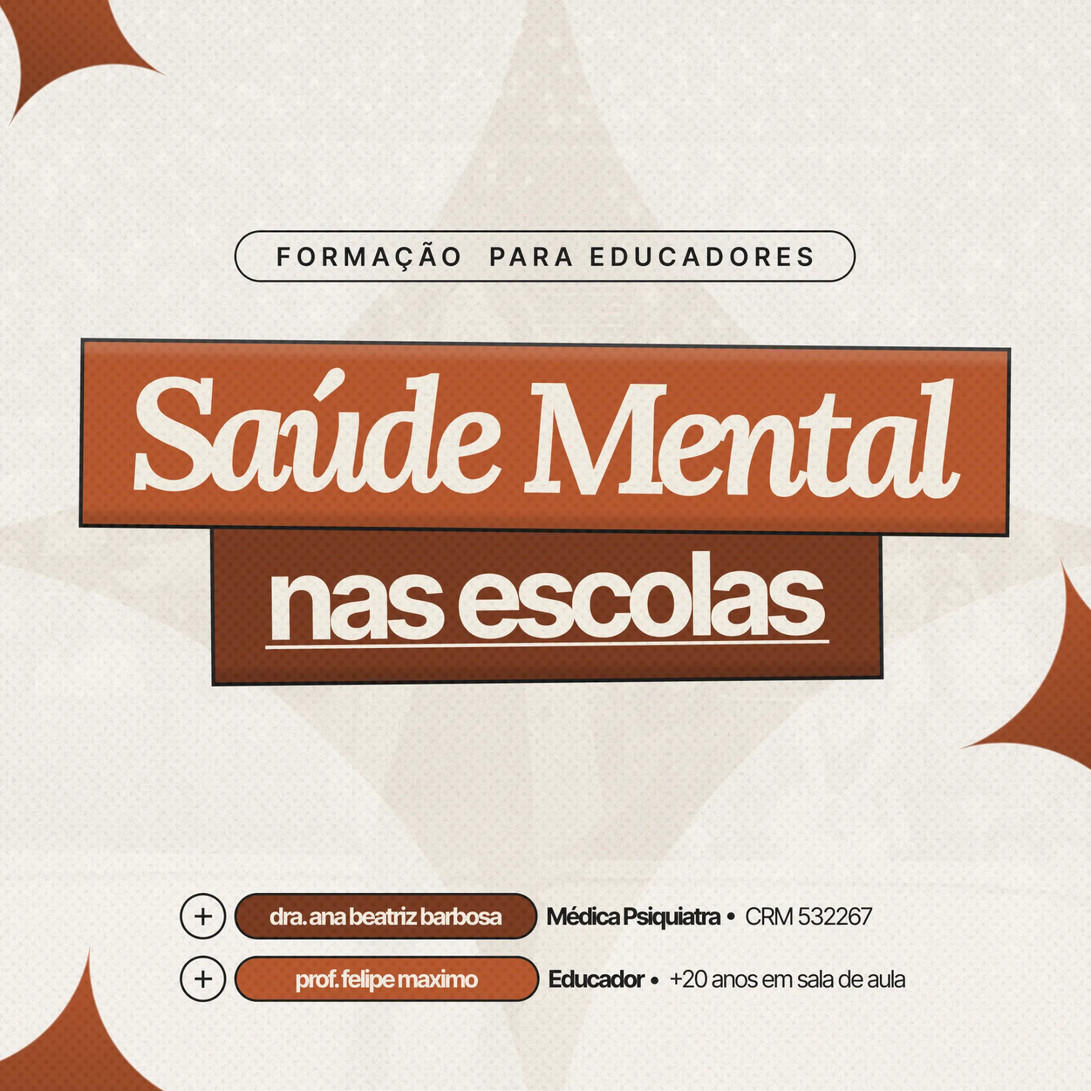
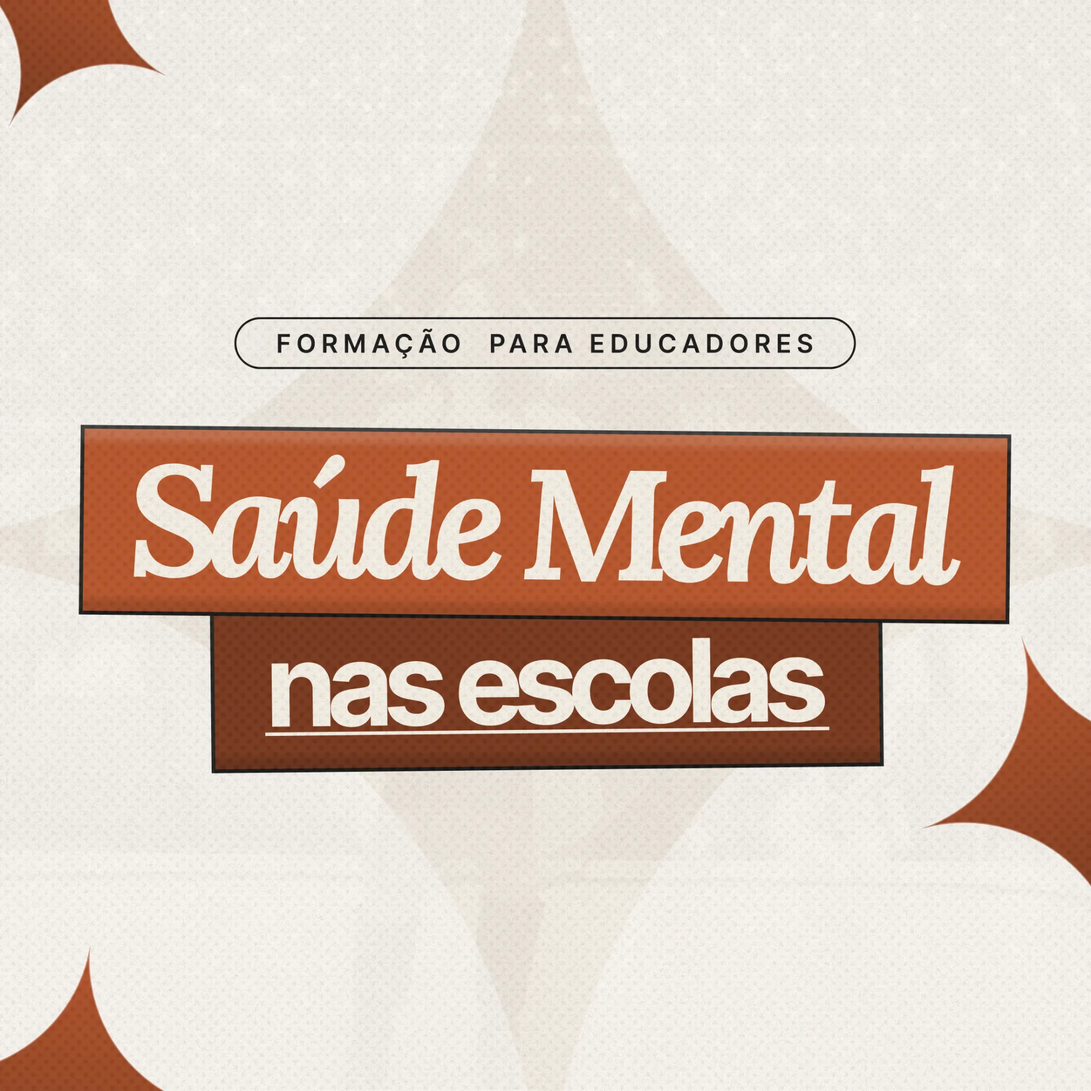
Foto correta do Saúde Mental nas Escolas

diff --git a/index.html b/index.html
@@ -961,7 +961,7 @@
 
   <div class="tile t-escolas in-view">
     <a class="tile-link" href="https://lp.draanabeatriz.com.br/saude-mental-nas-escolas/" target="_blank" rel="noopener">
-      <div class="photo"><img src="fotos/escolas.webp" alt="Banner do curso Saúde Mental nas Escolas, com a Dra. Ana Beatriz Barbosa e o Prof. Felipe Maximo" width="2000" height="2000" loading="lazy"></div>
+      <div class="photo"><img src="fotos/escolas.webp" alt="Banner Saúde Mental nas Escolas, formação para educadores" width="2000" height="2000" loading="lazy"></div>
       <span class="chip"><svg><use href="#i-arrow"/></svg></span>
       <div class="tile-body"><strong>Formação Saúde Mental nas Escolas</strong></div>
     </a>
